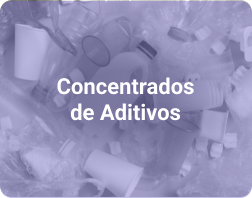
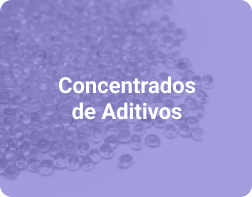
fixes hero

diff --git a/components/Home/Sections.vue b/components/Home/Sections.vue
@@ -58,7 +58,7 @@
 
                 <v-row justify="center" v-if="windowSize < 1129">
                     <v-col cols="6" xl="3" md="3" sm="6" xs="6" align="center">
-                        <v-img src="/plasticos.png" contain max-width="250"></v-img>
+                        <v-img class="plasticos" src="/plasticos.png" contain max-width="250"></v-img>
                     </v-col>
                     <v-col cols="6" xl="3" md="3" sm="6" xs="6" align="center">
                         <v-img src="/compuestos.png" contain max-width="250"></v-img>
@@ -81,16 +81,39 @@
                 <v-sheet class="mx-auto" max-width="1150">
                     <v-slide-group v-model="model" class="pa-5" center-active show-arrows>
                         <v-slide-item v-for="(item, index) in catPoducts" :key="index" >
-                            <v-card class="ma-5 card-blog shadow-out" max-width="325" max-height="390">
+                            <!--<v-card class="ma-5 card-blog shadow-out" max-width="325" max-height="390">
                                 <img :src="item.img" style="width: 100%" alt="pruebas"/>
                                 <v-card-title></v-card-title>
                                 <v-card-subtitle></v-card-subtitle>
                                 <v-card-actions>
                                 </v-card-actions>
-                            </v-card>
+                            </v-card>-->
+
+                            <v-hover v-slot="{ hover }">
+                                <v-card class="ma-5 card-blog shadow-out" max-width="325" max-height="390">
+                                    <v-img :src="item.img" style="width: 100%">
+                                        <v-expand-transition>
+                                            
+                                        <!--<div v-if="hover" class="d-flex transition-fast-in-fast-out orange darken-2 v-card--reveal text-h2 white--text" style="height: 100%;"></div>-->
+                                        <v-img :src="item.imgH" v-if="hover" class="d-flex transition-fast-in-fast-out v-card--reveal text-h2 white--text" style="height: 100%;"></v-img>
+                                        </v-expand-transition>
+                                    </v-img>
+                                </v-card>
+                            </v-hover>
+
                         </v-slide-item>
                     </v-slide-group>
                 </v-sheet>
+                <!--<v-hover v-slot="{ hover }">
+                    <v-card class="mx-auto" color="grey lighten-4" max-width="600">
+                        <v-img :aspect-ratio="16/9" src="https://cdn.vuetifyjs.com/images/cards/kitchen.png">
+                            <v-expand-transition>
+
+                            <div v-if="hover" class="d-flex transition-fast-in-fast-out orange darken-2 v-card--reveal text-h2 white--text" style="height: 100%;"></div>
+                            </v-expand-transition>
+                        </v-img>
+                    </v-card>
+                </v-hover>-->
             </v-container>
             <v-container>
                 <div class="d-flex justify-center mb-10">
@@ -474,17 +497,17 @@ export default {
                 {img: require('../../static/blog-polnac.png'), title: 'Nuevos horizontes', description: 'El pasado mes marzo en Nairobi, capital de Kenia, la Asamblea de las Naciones Unidas para el Medio Ambiente...' },
             ],
             catPoducts: [
-                { img: require('../../static/plasticos.png')},
-                { img: require('../../static/compuestos.png')},
-                { img: require('../../static/masrterbach.png')},
-                { img: require('../../static/aditivos.png')},
-                { img: require('../../static/carbonato.png')},
-                { img: require('../../static/rotomoldeo.png')},
+                { img: require('../../static/plasticos.png'), imgH: require('../../static/h-plasticos.png')},
+                { img: require('../../static/compuestos.png'), imgH: require('../../static/h-compuestos.png')},
+                { img: require('../../static/masrterbach.png'), imgH: require('../../static/h-masterbach.png')},
+                { img: require('../../static/aditivos.png'), imgH: require('../../static/h-aditivos.png')},
+                { img: require('../../static/carbonato.png'), imgH: require('../../static/h-carbonato.png')},
+                { img: require('../../static/rotomoldeo.png'), imgH: require('../../static/h-rotomoldeo.png')},
 
-                { img: require('../../static/masrterbach.png')},
-                { img: require('../../static/aditivos.png')},
-                { img: require('../../static/carbonato.png')},
-                { img: require('../../static/rotomoldeo.png')},
+                { img: require('../../static/masrterbach.png'), imgH: require('../../static/h-masterbach.png')},
+                { img: require('../../static/aditivos.png'), imgH: require('../../static/h-aditivos.png')},
+                { img: require('../../static/carbonato.png'), imgH: require('../../static/h-carbonato.png')},
+                { img: require('../../static/rotomoldeo.png'), imgH: require('../../static/h-rotomoldeo.png')},
             ],
             items: [
                 {

diff --git a/components/Home/Carousel.vue b/components/Home/Carousel.vue
@@ -21,7 +21,7 @@
         <v-carousel v-model="model" :height="windowSize > 1129 ? '510' : '650' " hide-delimiter-background show-arrows-on-hover cycle >
             <v-carousel-item v-for="(color, index ) in colors" :key="index">
                 <!--:class="{'bg-img' : index !== 2}"-->
-                <v-sheet tile class="bg-img" :class="windowSize > 1129? 'size-bg' : ''">
+                <v-sheet tile class="bg-img" :class="windowSize > 1129 ? 'size-bg' : 'size-bg-mb'">
                     <!--<video src="../../static/video/home.mp4" autoplay="true" controls muted="muted" loop="true" v-if="index === 2" :class="{'size-video' : windowSize > 1129, 'size-video-mb': windowSize < 1129}"></video>-->
                     <v-row justify="center">
                         <v-container>
@@ -83,7 +83,7 @@ export default {
     height: 520px;
 }
 .size-bg-mb{
-    height: 520px;
+    height: 660px;
 }
 .font-title{
     /*font-family: 'Archivo' !important;*/
